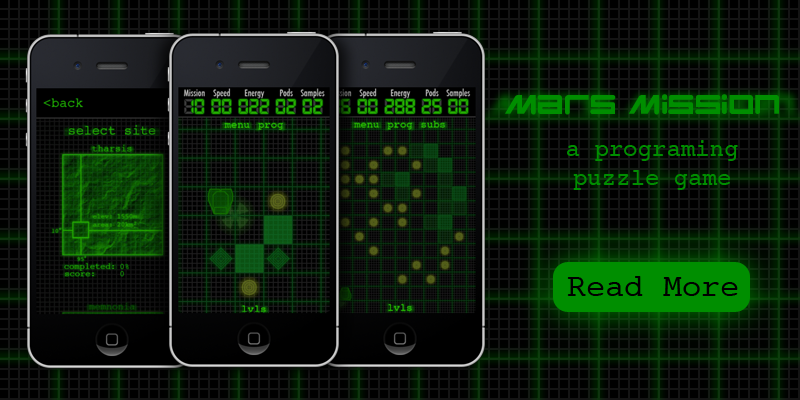
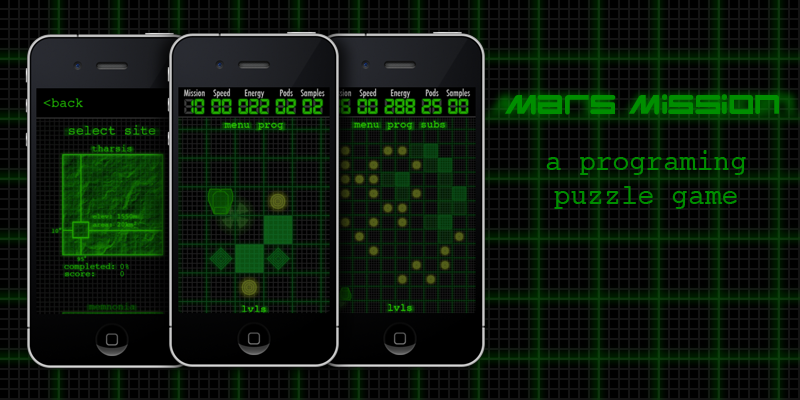
more landing page work. started product page.

Changed region(s): [[0.6562, 0.6, 0.9688, 0.84], [0.6875, 0.36, 0.9375, 0.51]]

diff --git a/public/main.css b/public/main.css
@@ -271,8 +271,13 @@ pre span.symbol { color: #008B8B; }
 	width:800px;
 	overflow:hidden;
 }
-.slide{
+.slide {
+	height:400px;
+	width:800px;
 	float:left;
+}
+.slide .relative{
+    position: relative;
 }
 #menu {
     text-align: center;
@@ -302,10 +307,43 @@ li.menuItem a {
 }
 
 /******* products *******/
+#products {
+}
 #products ul{
 	margin:0px;
 	padding:0px;
 }
-li.product{
+#products li.product {
+    height: 150px;
+}
+#products li.product .content {
+    float:left;
+    margin-left: 20px;
+    width: 70%;
+}
+#products li.product .app-store {
+    float:right;
+    margin-right: 20px;
+}
+#products li.product .content h1 {
+    font-size: 125%;
+    font-weight: normal;
+}
+#products li.product .content p {
+}
+#products li.product .icon {
+    margin-top: 25px;
+    margin-left: 10px;
+    float:left;
+}
+#products li.product{
+    margin-bottom: 10px;
 	list-style:none;
+    -moz-border-radius:15px;
+	-webkit-border-radius:15px;
+	border-bottom-radius:15px;
+    border-style:solid;
+    border-width:1px;
+    border-color:#DDD;
+    clear:; right;
 }
